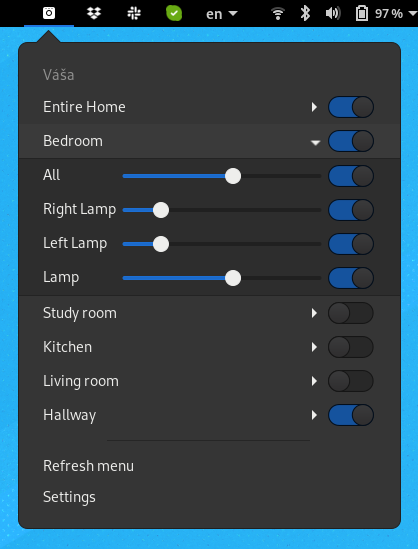
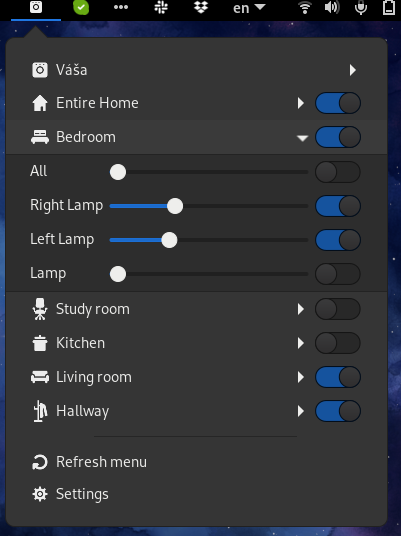
Version bump: 6

diff --git a/CHANGELOG.md b/CHANGELOG.md
@@ -1,4 +1,4 @@
-## Version 6 [TBA]
+## Version 6
  * support for group icons (bright and dark)
  * support for sensors
 ## Version 5
